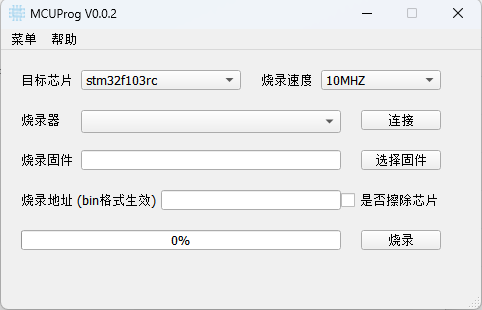
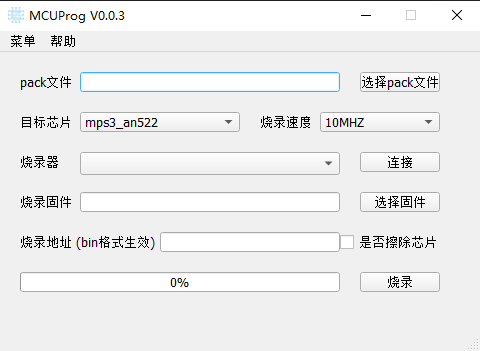
update:更新readme

diff --git a/README.md b/README.md
@@ -1,18 +1,36 @@
+**English** | [中文](./README_zh.md) 
+
 # MCUProg
 
-## 介绍
-MCUProg是一款基于pyocd+PySide6的MUC烧录上位机软件(此软件只是用来学习pyocd和PySide6的练手项目,如果能帮到你那无比荣幸,你也可以任意修改)
+## Introduction
 
-## 软件架构
-环境：
-python: 3.11
+MCUProg is a MUC programming host computer software based on pyocd+PySide6 (this software is only used to learn pyocd and PySide6 practice projects, if it can help you, it is a great honor, you can also modify it at will)
+
+**If you encounter any problems with use, please give feedback in time**
+
+## Software Architecture
+
 pyocd: 0.36.0
 PySide6: 6.7.0
 
+## Support features
 
+- support daplinkv1、daplinkv2、stlink、jlink programmer 
+- Support optional erasing chip during programming
+- Custom programming addresses are supported
+- Support custom local pack file to support custom chip
 
-## 软件展示
+## Precautions
+
+If the programming fails, please check the following points
+
+1. Whether the connection between the programmer  and the chip is normal
+2. Whether the target chip is selected correctly
+3. Whether the chip supports the selected programming speed
+4. Whether there is an interruption to the download, such as unplugging the USB operation
+5. In other cases, try restarting the software
+
+## Software Presentation
 
 ![MCUProg](./doc/MCUProg.png)
-
 
